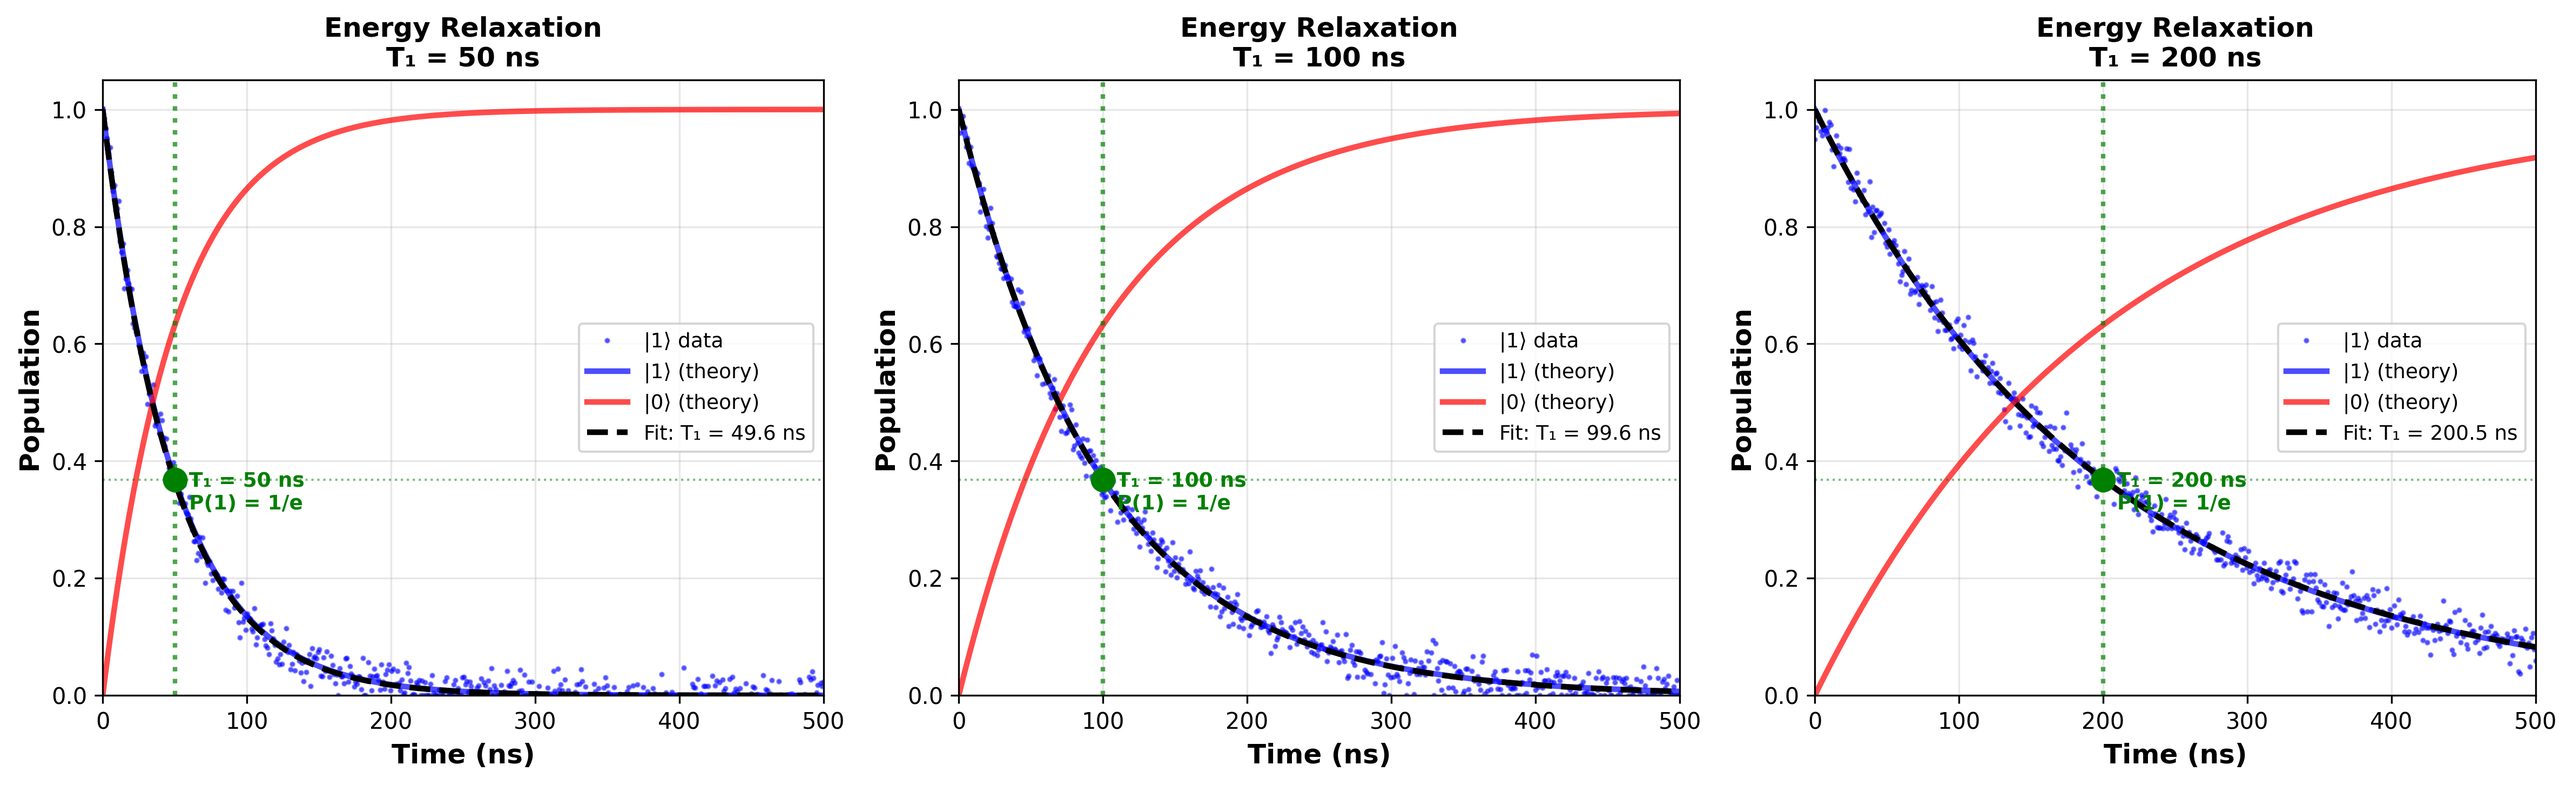
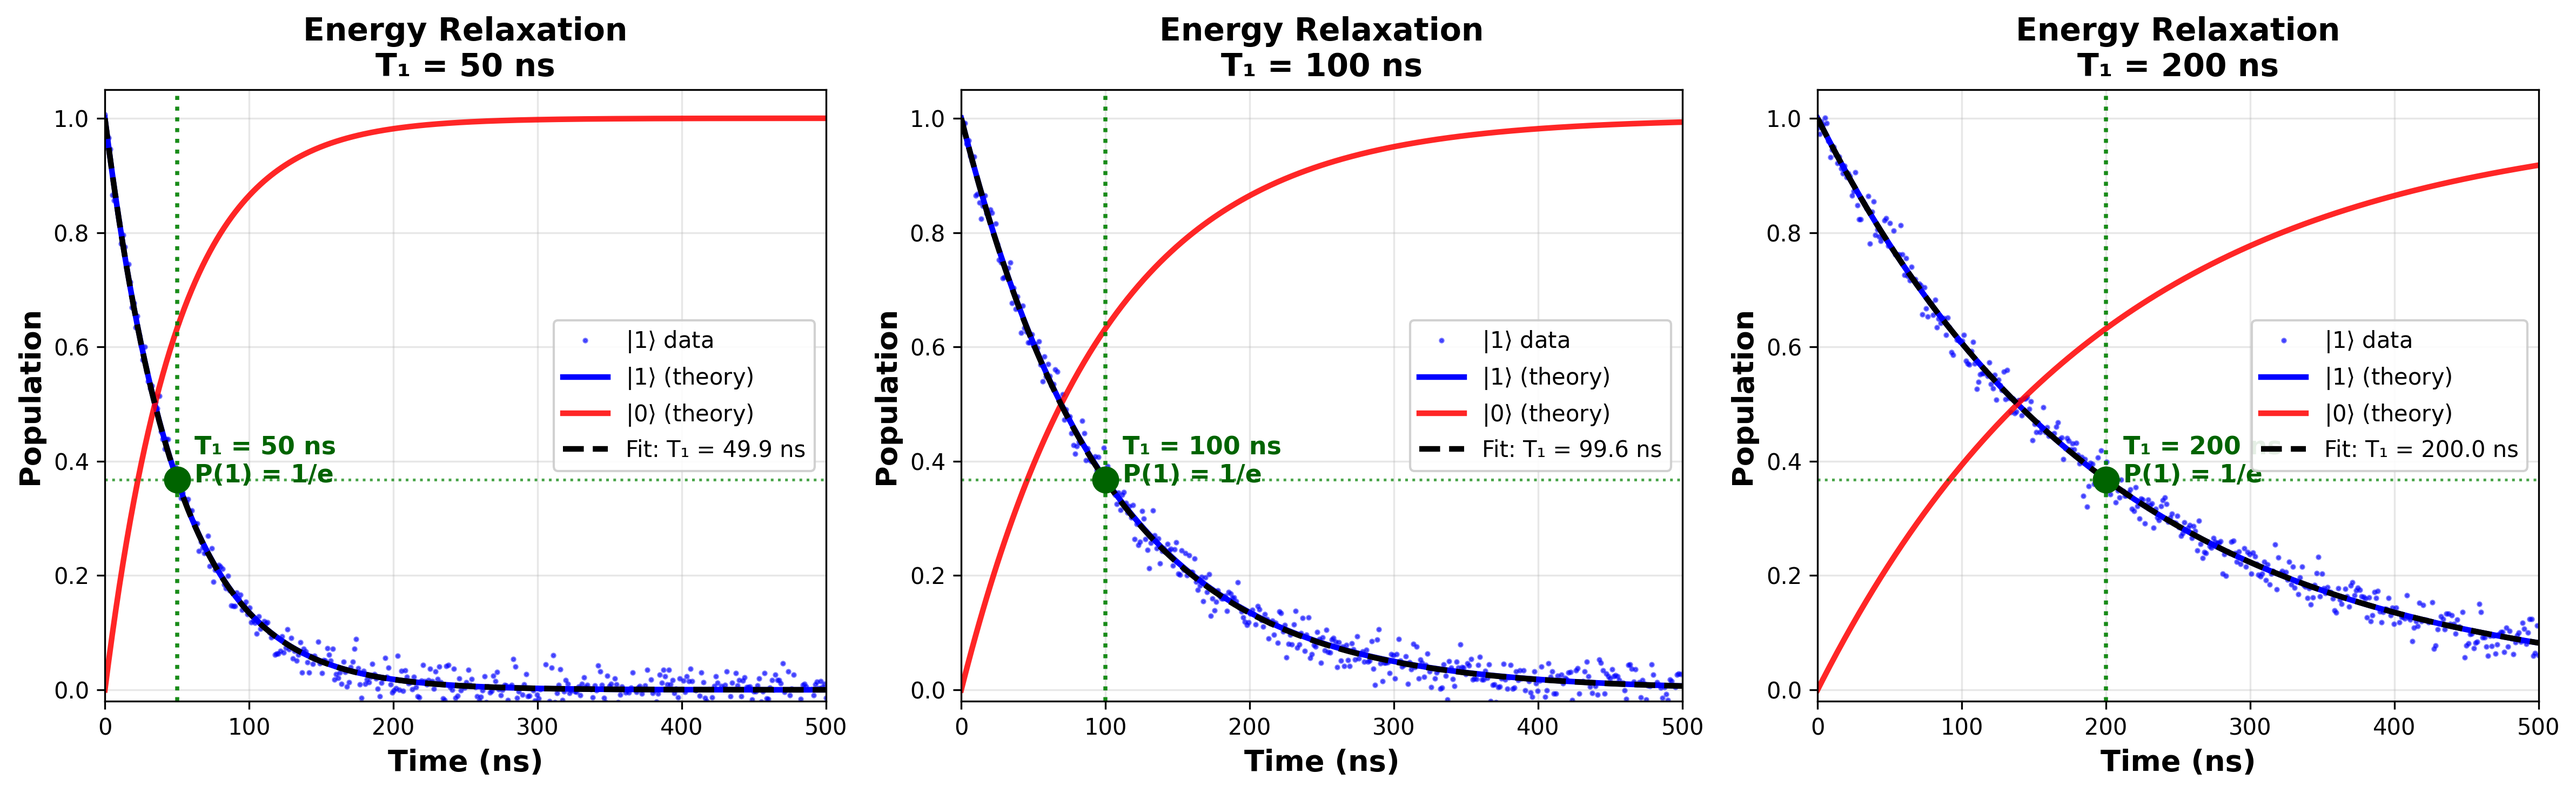
Figs 2.16/2.17: regenerate from reconstructed SSoT script + fix T2 physics
The original generator was never pushed (provenance gap, cf. Fig 2.8).
Reconstructed as qh_hardware audit_g7/scripts/
regenerate_fig_T1_T2_simulations.py (seed 42, deterministic).

Physics fix in Fig 2.17 left panel: 'pure T1 limit' claimed
T2 = T1/2 = 50 ns, but 1/T2 = 1/(2T1) + 1/T_phi with T_phi -> inf gives
T2 = 2T1 = 200 ns; envelope, markers, param box and caption corrected.
Fig 2.16 caption fit values updated to the new noise realisation
(49.9 / 99.6 / 200.0 ns). 188 pp unchanged.

Claude-Session: https://claude.ai/code/session_01DD9m6UXVTKwPczyf4WWcwE

diff --git a/chapters/quantum_hw.tex b/chapters/quantum_hw.tex
@@ -2813,7 +2813,7 @@ The dominant contributions are quasiparticle tunneling (31.5\%) and TLS defects 
     \centering
     \includegraphics[width=\textwidth]{chapters/qh_figures/T1_measurement_simulation.png}
     \caption{\textbf{Numerical $T_1$ energy relaxation measurement simulations.} 
-    Three panels show master equation simulations of qubit population decay following excitation to state $|1\rangle$ at $t=0$ for different $T_1$ values: (left) $T_1 = 50$~ns, (centre) $T_1 = 100$~ns, (right) $T_1 = 200$~ns. Each simulation includes realistic measurement noise (blue dots) to emulate experimental data. The excited state population $P(|1\rangle)$ (blue) and ground state population $P(|0\rangle)$ (red) evolve complementarily, with theoretical fits (solid lines) showing exponential decay $P(|1\rangle) = \exp(-t/T_1)$. Black dashed lines indicate fitted $T_1$ values from noisy data: 49.6~ns, 99.6~ns, and 200.5~ns, respectively, demonstrating excellent agreement with input parameters. The $1/e$ point where $P(|1\rangle) = 1/e \approx 0.368$ (green dot and horizontal line) marks the characteristic energy relaxation time. Vertical green dotted lines identify this time point. These simulations validate our decoherence model and demonstrate that $T_1$ measurements can accurately extract energy relaxation rates even with realistic experimental imperfections. For our 300~GHz system at 4~K, we project $T_1 \approx 15.3$~$\mu$s based on combined contributions from Purcell decay, dielectric loss, quasiparticle tunneling, and TLS defects.}
+    Three panels show master equation simulations of qubit population decay following excitation to state $|1\rangle$ at $t=0$ for different $T_1$ values: (left) $T_1 = 50$~ns, (centre) $T_1 = 100$~ns, (right) $T_1 = 200$~ns. Each simulation includes realistic measurement noise (blue dots) to emulate experimental data. The excited state population $P(|1\rangle)$ (blue) and ground state population $P(|0\rangle)$ (red) evolve complementarily, with theoretical fits (solid lines) showing exponential decay $P(|1\rangle) = \exp(-t/T_1)$. Black dashed lines indicate fitted $T_1$ values from noisy data: 49.9~ns, 99.6~ns, and 200.0~ns, respectively, demonstrating excellent agreement with input parameters. The $1/e$ point where $P(|1\rangle) = 1/e \approx 0.368$ (green dot and horizontal line) marks the characteristic energy relaxation time. Vertical green dotted lines identify this time point. These simulations validate our decoherence model and demonstrate that $T_1$ measurements can accurately extract energy relaxation rates even with realistic experimental imperfections. For our 300~GHz system at 4~K, we project $T_1 \approx 15.3$~$\mu$s based on combined contributions from Purcell decay, dielectric loss, quasiparticle tunneling, and TLS defects.}
     \label{fig:t1_simulations}
 \end{figure}
 
@@ -2848,8 +2848,8 @@ At the flux-insensitive sweet spot the first-order flux sensitivity vanishes; th
     \includegraphics[width=\textwidth]{chapters/qh_figures/T2_ramsey_simulation.png}
     \caption{\textbf{Ramsey fringe simulations showing $T_2$ dephasing regimes.} 
     Three panels demonstrate numerically simulated Ramsey interference experiments for different dephasing scenarios with $T_1 = 100$~ns fixed. 
-    \textbf{Left}: Pure $T_1$ limit where $T_2 = T_1/2 = 50$~ns, showing clean oscillations (blue solid) with exponential envelope decay (red dashed) governed solely by energy relaxation. 
-    \textbf{Centre}: Weak pure dephasing with $T_\phi = 200$~ns giving $T_2 = 100$~ns via $1/T_2 = 1/(2T_1) + 1/T_\phi$. The Ramsey signal exhibits faster decay than the pure $T_1$ case but slower than the envelope prediction, with visible oscillations persisting beyond 50~ns.
+    \textbf{Left}: Pure $T_1$ limit ($T_\phi \to \infty$), where $1/T_2 = 1/(2T_1)$ gives $T_2 = 2T_1 = 200$~ns: clean oscillations (blue solid) decay slowly inside the exponential envelope (red dashed) set by energy relaxation alone.
+    \textbf{Centre}: Weak pure dephasing with $T_\phi = 200$~ns giving $T_2 = 100$~ns via $1/T_2 = 1/(2T_1) + 1/T_\phi$. The Ramsey fringes decay visibly faster than in the pure-$T_1$ case, with oscillations still discernible beyond 150~ns.
     \textbf{Right}: Strong pure dephasing with $T_\phi = 50$~ns yielding $T_2 = 40$~ns, showing rapid decay that significantly outpaces energy relaxation. The oscillations are heavily damped within the first 40~ns.
     All panels include realistic measurement noise (blue dots) and show the Ramsey oscillation signal (blue line) compared to the exponential envelope $\propto \exp(-t/T_2)$ (red dashed). The vertical green dotted line marks the $T_2$ time where the envelope has decayed to $1/e$, with a green dot highlighting this characteristic point. These simulations illustrate the relationship between $T_1$, $T_\phi$, and $T_2$ given by Eq.~\ref{eq:t2_relation}. For our 300~GHz system at 4~K, we project $T_2 \approx \TTwo$~$\mu$s with $T_\phi \approx 23$~$\mu$s, indicating that pure dephasing contributes comparably to energy relaxation, giving $T_2/T_1 \approx 0.86$---a favourable ratio enabling high-fidelity quantum operations. Hahn echo sequences extend effective coherence to $T_{2,\text{echo}} \approx 26.3$~$\mu$s.}
     \label{fig:t2_ramsey}
